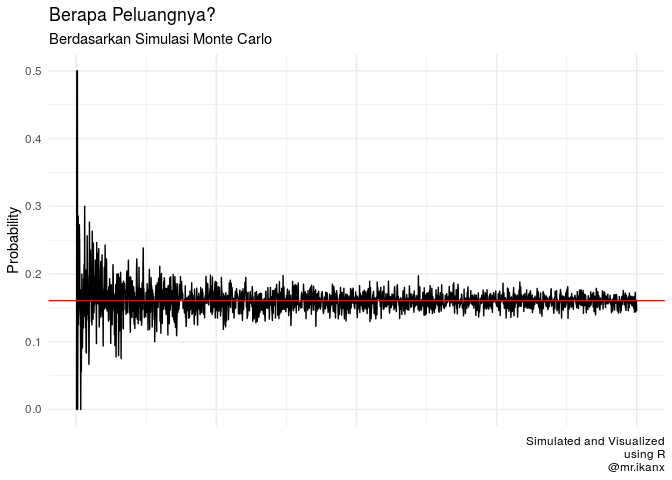
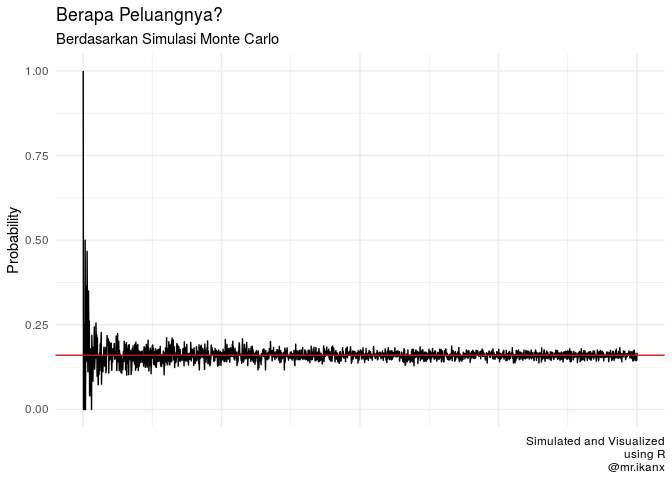
final

diff --git a/Bukan Infografis/puzzles/Daily use of Monte Carlito/bahan-tulisan-di-blog.md b/Bukan Infografis/puzzles/Daily use of Monte Carlito/bahan-tulisan-di-blog.md
@@ -64,13 +64,13 @@ minggu_ini = telat_seminggu()
 minggu_ini # keterlambatan yang terjadi dalam seminggu ini
 ```
 
-    ## [1] FALSE  TRUE  TRUE FALSE FALSE
+    ## [1] FALSE FALSE FALSE FALSE FALSE
 
 ``` r
 sum(minggu_ini) # berapa kali telat dalam 5 hari kerja?
 ```
 
-    ## [1] 2
+    ## [1] 0
 
 Ketiga, berbekal fungsi di atas, kita buat fungsi yang mengecek apakah
 karyawan tersebut terlambat di Senin dan Jumat.
@@ -113,16 +113,16 @@ head(data,10)
 ```
 
     ##    langkah peluang_simulasi
-    ## 1        1        0.0000000
-    ## 2        2        0.5000000
-    ## 3        3        0.0000000
-    ## 4        4        0.5000000
-    ## 5        5        0.0000000
-    ## 6        6        0.1666667
-    ## 7        7        0.2857143
-    ## 8        8        0.1250000
-    ## 9        9        0.2222222
-    ## 10      10        0.2000000
+    ## 1        1             1.00
+    ## 2        2             0.00
+    ## 3        3             0.00
+    ## 4        4             0.25
+    ## 5        5             0.00
+    ## 6        6             0.00
+    ## 7        7             0.00
+    ## 8        8             0.50
+    ## 9        9             0.00
+    ## 10      10             0.20
 
 ``` r
 # hasil 10 simulasi terakhir
@@ -130,16 +130,16 @@ tail(data,10)
 ```
 
     ##      langkah peluang_simulasi
-    ## 1991    1991        0.1667504
-    ## 1992    1992        0.1435743
-    ## 1993    1993        0.1460110
-    ## 1994    1994        0.1599799
-    ## 1995    1995        0.1729323
-    ## 1996    1996        0.1513026
-    ## 1997    1997        0.1442163
-    ## 1998    1998        0.1561562
-    ## 1999    1999        0.1610805
-    ## 2000    2000        0.1455000
+    ## 1991    1991        0.1612255
+    ## 1992    1992        0.1661647
+    ## 1993    1993        0.1650778
+    ## 1994    1994        0.1489468
+    ## 1995    1995        0.1563910
+    ## 1996    1996        0.1437876
+    ## 1997    1997        0.1507261
+    ## 1998    1998        0.1496496
+    ## 1999    1999        0.1450725
+    ## 2000    2000        0.1675000
 
 ### Jadi berapa peluang si karyawan itu datang telat di Senin DAN Jumat?
 
@@ -147,7 +147,7 @@ tail(data,10)
 mean(data$peluang_simulasi)
 ```
 
-    ## [1] 0.1606792
+    ## [1] 0.1601322
 
 ![](bahan-tulisan-di-blog_files/figure-gfm/unnamed-chunk-7-1.png)<!-- -->
 
@@ -160,12 +160,12 @@ satu kriteria responden yang dicari adalah memiliki sosial ekonomi
 status yang **tinggi** alias **horang kayah**.
 
 > Berdasarkan data yang saya punya dari **AC Nielsen**, proporsi
-> **horang kayah** di kota tersebut ada sebesar `16%` dari populasi kota
+> **horang kayah** di kota tersebut ada sebesar `13%` dari populasi kota
 > tersebut.
 
 Pertanyaannya:
 
-Jika pemilihan respondenn dilakukan secara *random*, berapa banyak orang
+Jika pemilihan responden dilakukan secara *random*, berapa banyak orang
 responden yang harus saya temui sampai saya bisa mendapatkan `30` orang
 responden **horang kayah** tersebut?
 
@@ -176,16 +176,16 @@ responden **horang kayah** tersebut?
 Oke, sekarang kita akan menghitungnya tanpa menggunakan simulasi.
 Bagaimana caranya?
 
-> Tinggal dibagi saja `30` dengan `16%` yah\!
+> Tinggal dibagi saja `30` dengan `13%` yah\!
 
 ``` r
-n = 30 / (16/100)
+n = 30 / (13/100)
 n
 ```
 
-    ## [1] 187.5
+    ## [1] 230.7692
 
-Setidaknya saya membutuh sekitar `187` orang responden agar saya bisa
+Setidaknya saya membutuh sekitar `230` orang responden agar saya bisa
 mendapatkan `30` orang responden **horang kayah**.
 
 ### Sekarang kita selesaikan dengan simulasi:
@@ -194,7 +194,7 @@ mendapatkan `30` orang responden **horang kayah**.
 
 Kadang simulasi dibutuhkan karena kita ingin mendapatkan jawaban berupa
 selang atau rentang karena kita berhadapan dengan masalah peluang di
-sini. Sedangkan jawaban `187.5` adalah jawaban eksak.
+sini. Sedangkan jawaban `230.7` adalah jawaban eksak.
 
 Nanti hasil *expected value* dari simulasi seharusnya mirip dengan
 jawaban eksak.
@@ -206,7 +206,7 @@ tepat.
 
 ``` r
 tepat = function(){
-  sample(c(1,0),1,prob = c(16/100,84/100))
+  sample(c(1,0),1,prob = c(13/100,87/100))
 }
 tepat()
 ```
@@ -241,10 +241,54 @@ for(i in 1:length(data$id)){
 }
 ```
 
-Sekarang, *expected value* dari simulasi ini adalah sebesar:
+Mari kita hitung *expected value* dari simulasi ini, yakni sebesar:
 
 ``` r
 mean(data$banyak_resp)
 ```
 
-    ## [1] 187.9764
+    ## [1] 230.526
+
+Kalau dibandingkan, hasil *expected value* dari simulasi dan perhitungan
+eksak memiliki hasil yang hampir sama.
+
+Nah, sekarang apa kelebihan simulasi? Kita bisa lihat selang
+perkiraannya sebagai berikut:
+
+``` r
+data %>% ggplot(aes(y = banyak_resp)) + geom_boxplot(notch=TRUE) +
+  theme_minimal() +
+  labs(subtitle = 'Boxplot Hasil Simulasi Monte Carlo',
+       title = 'Berapa banyak responden yang harus saya wawancara agar mendapatkan\nhorang kayah sebanyak 30 orang?',
+       caption = 'Simulated and Visualized\nusing R\n@mr.ikanx',
+       y = 'Banyak orang') +
+  theme(axis.title.x = element_blank(),
+        axis.text.x = element_blank())
+```
+
+![](bahan-tulisan-di-blog_files/figure-gfm/unnamed-chunk-14-1.png)<!-- -->
+
+Karena saya melakukan simulasi ini sekian ribu kali, maka dengan
+memanfaatkan *Central Limit Theorem*, saya mengasumsikan data ini
+berdistribusi normal.
+
+Masih ingat hubungan histogram dan boxplot dari distribusi normal
+berikut
+ini?
+
+![](https://www.kanat.net/THESIS_screenshots/other/Boxplot_vs_PDF_v6_200dpi_7x4_in.png
+"histogram")
+
+> Sehingga saya bisa menyimpulkan bahwa daerah antara `Q1` dan `Q3`
+> adalah selang perkiraan saya inginkan karena mengcover 50% dari data
+> yang mungkin muncul.
+
+``` r
+summary(data$banyak_resp)
+```
+
+    ##    Min. 1st Qu.  Median    Mean 3rd Qu.    Max. 
+    ##   121.0   203.0   229.0   230.5   256.0   367.0
+
+Jadi untuk mendapatkan horang kayah sebanyak 30 orang, saya perlu
+mewawancarai sekitar 203 - 256 orang.
